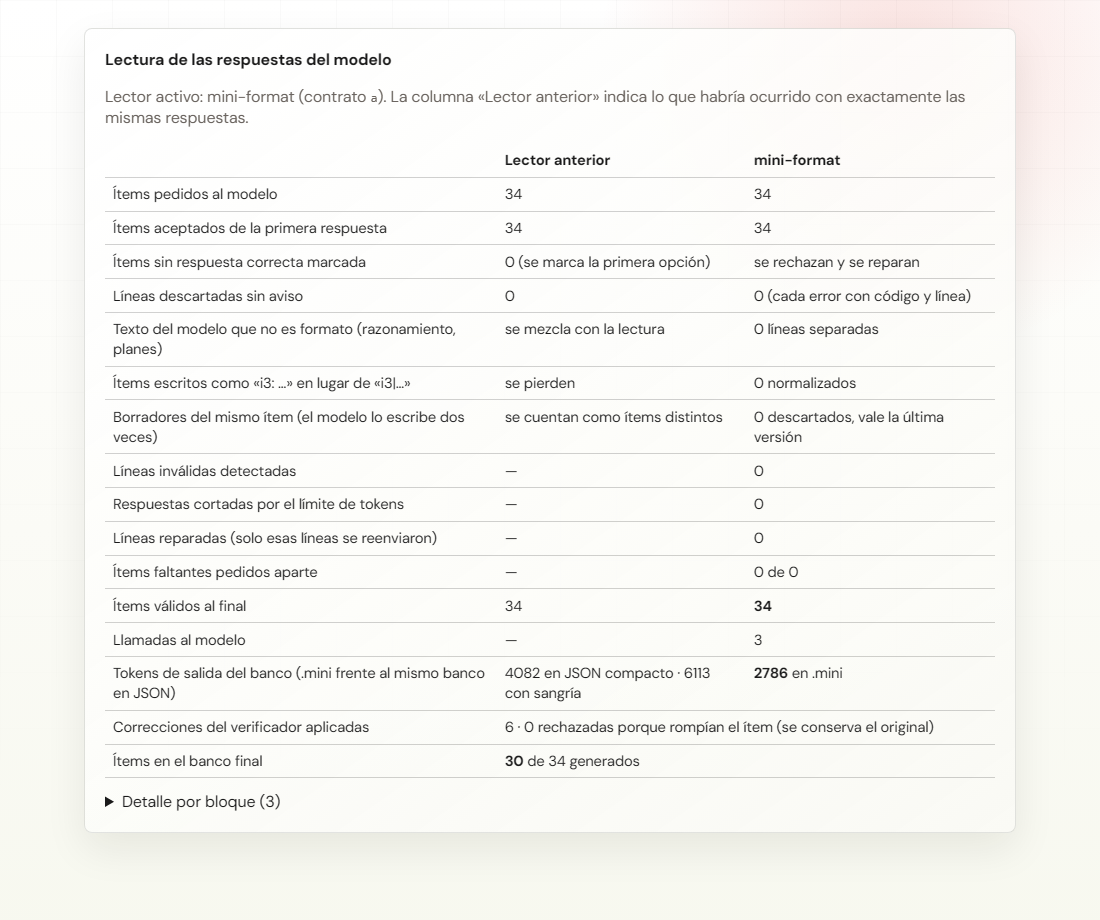
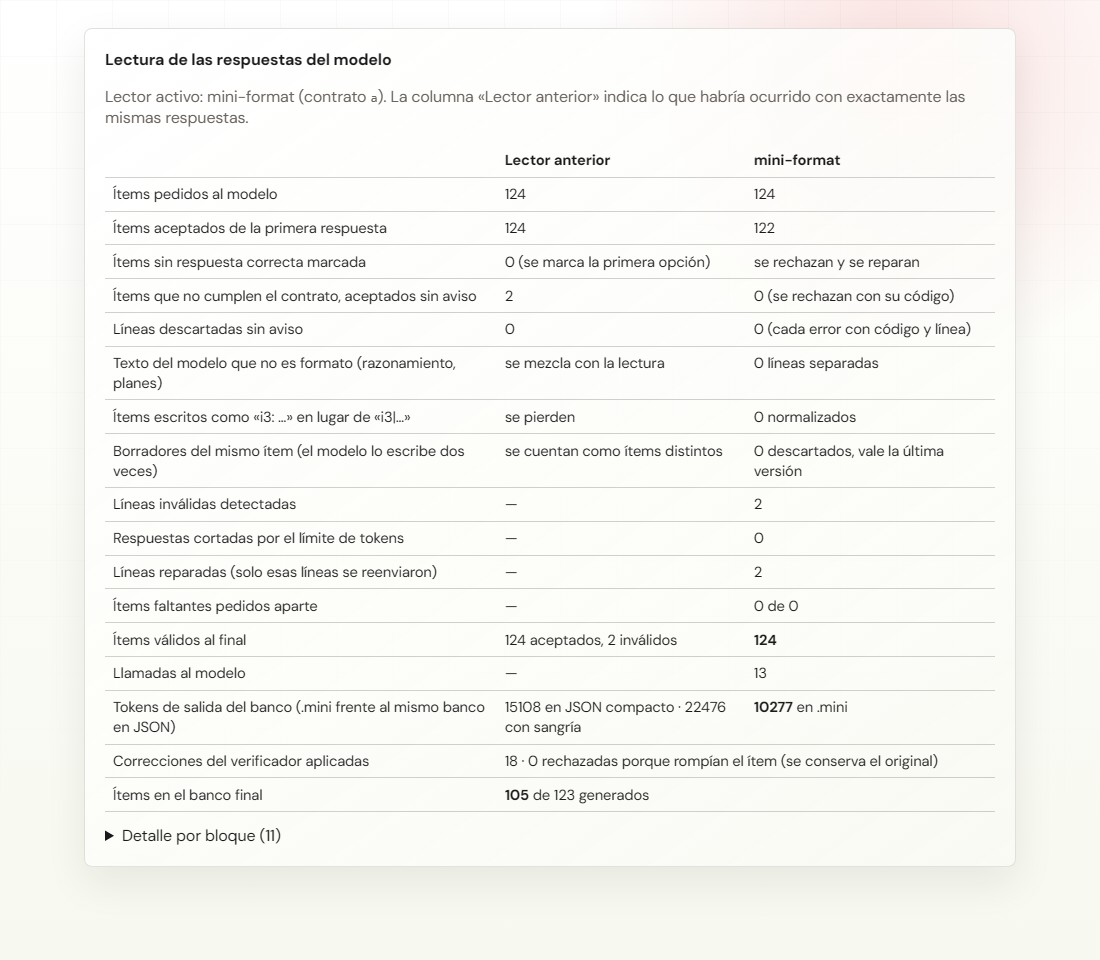
Caso SIMA: clase larga real (11 725 palabras, 124 preguntas, 146 s con DeepSeek), prueba en vivo con el prompt real de SIMA y ítems inválidos aceptados por el lector anterior

Changed region(s): [[0.0927, 0.1522, 0.8964, 0.8826], [0.0927, 0.0609, 0.8655, 0.1522], [0.4327, 0.1522, 0.6491, 0.3043]]

diff --git a/examples/sima/plantilla.html b/examples/sima/plantilla.html
@@ -72,6 +72,9 @@ __CABEZA__
   .sm-opciones button.no { border-color: rgb(185 28 28); background: rgb(220 38 38 / .08); }
   .sm-opciones button[disabled] { cursor: default; }
   .sm-linea { margin-top: .8rem; }
+  .sm-guia { margin: .4rem 0; padding-left: 1.2rem; font-size: var(--fs-cap); color: rgb(var(--fg-muted)); }
+  .sm textarea { width: 100%; box-sizing: border-box; min-height: 11rem; font-family: var(--f-mono); font-size: .78rem; line-height: 1.5;
+                 padding: .7rem .8rem; border: 1px solid rgb(var(--line)); border-radius: var(--r); background: rgb(var(--subtle)); color: rgb(var(--fg)); }
   .sm img { max-width: 100%; height: auto; border: 1px solid rgb(var(--line)); border-radius: var(--r-lg); display: block; }
   .sm-nota { font-size: var(--fs-fine); color: rgb(var(--fg-muted)); margin-top: .8rem; }
   .sm table { width: 100%; border-collapse: collapse; font-size: .8rem; }
@@ -116,12 +119,10 @@ __CABECERA__
 
   <section class="sm-panel">
     <h2><span data-lang="es">2 · Costo: el mismo banco en .mini y en JSON</span><span data-lang="en" hidden>2 · Cost: the same bank in .mini and in JSON</span></h2>
-    <p class="sub"><span data-lang="es">Tokens de salida de las preguntas generadas en esta clase, escritas en .mini y convertidas a JSON con los mismos datos. La línea roja es el
-      límite de salida por llamada configurado en SIMA.</span>
-      <span data-lang="en" hidden>Output tokens of the questions generated in this lecture, written in .mini and converted to JSON with the same data. The red line is the
-      per-call output limit configured in SIMA.</span></p>
+    <p class="sub"><span data-lang="es">Tokens de salida de las preguntas generadas en esta clase, escritas en .mini y convertidas a JSON con los mismos datos. </span>
+      <span data-lang="en" hidden>Output tokens of the questions generated in this lecture, written in .mini and converted to JSON with the same data. </span></p>
     <div class="sm-barras" id="barras"></div>
-    <p class="sm-leyenda"><i></i><span id="leyenda-limite"></span></p>
+    <p class="sm-leyenda"><span id="leyenda-limite"></span></p>
     <div id="conclusion-tokens"></div>
   </section>
 
@@ -136,8 +137,23 @@ __CABECERA__
       <button type="button" class="sm-chip" data-respuesta="deepseek-chat">DeepSeek Chat</button>
       <button type="button" class="sm-chip" data-respuesta="qwen-groq">Qwen 3 (Groq)</button>
       <button type="button" class="sm-chip" data-respuesta="deepseek-v4-flash">DeepSeek V4 Flash</button>
+      <button type="button" class="sm-chip" data-respuesta="vivo"><span data-lang="es">Tu respuesta, en vivo</span><span data-lang="en" hidden>Your answer, live</span></button>
     </div>
     <div id="respuesta-desc"></div>
+    <div id="vivo" hidden>
+      <ol class="sm-guia">
+        <li><span data-lang="es">Copia el prompt real que SIMA envía al modelo para el primer bloque de la clase.</span>
+            <span data-lang="en" hidden>Copy the real prompt SIMA sends to the model for the first block of the lecture.</span></li>
+        <li><span data-lang="es">Pégalo en un chat de IA y copia su respuesta completa.</span><span data-lang="en" hidden>Paste it into an AI chat and copy its whole answer.</span></li>
+        <li><span data-lang="es">Pégala abajo: los dos lectores la procesan al instante.</span><span data-lang="en" hidden>Paste it below: both readers process it instantly.</span></li>
+      </ol>
+      <div class="sm-fila">
+        <button type="button" class="btn btn-solid" id="copiar-prompt"><span data-lang="es">Copiar el prompt de SIMA</span><span data-lang="en" hidden>Copy SIMA's prompt</span></button>
+        <a class="btn" href="https://chat.deepseek.com/" target="_blank" rel="noopener"><span data-lang="es">Abrir DeepSeek</span><span data-lang="en" hidden>Open DeepSeek</span> ↗</a>
+        <a class="btn" href="https://chatgpt.com/" target="_blank" rel="noopener"><span data-lang="es">Abrir ChatGPT</span><span data-lang="en" hidden>Open ChatGPT</span> ↗</a>
+      </div>
+      <textarea id="texto-vivo" spellcheck="false" aria-label="Respuesta del modelo" placeholder="a|m=IRT3PL|..."></textarea>
+    </div>
     <details><summary><span data-lang="es">Ver la respuesta tal como llegó</span><span data-lang="en" hidden>Show the answer as it arrived</span></summary>
       <pre id="respuesta-texto"></pre></details>
     <div class="sm-dos">
@@ -191,6 +207,7 @@ __PIE__
     E02: ["la primera línea no es la cabecera del contrato", "the first line is not the contract header"],
     E03: ["la cabecera no declara el número de registros", "the header does not declare the record count"],
     E05: ["la línea tiene otra cantidad de campos (llegó cortada o mal separada)", "the line has a different number of fields (cut or badly separated)"],
+    E07: ["la pregunta no tiene el número de opciones que exige el contrato", "the question does not have the number of options the contract requires"],
     E08: ["la pregunta no tiene marcada la respuesta correcta", "the question has no correct answer marked"],
     E10: ["valor fuera de los permitidos", "value outside the allowed ones"],
     E11: ["identificador repetido", "repeated identifier"],
@@ -243,31 +260,33 @@ __PIE__
 
   // ------------------------------------------------------------ 1 · clase
   function pintarClase() {
-    const c = DATOS.clase, r = DATOS.corridas.minifmt;
-    $("#clase-sub").textContent = t(["Clase «" + c.titulo + "», procesada el " + DATOS.fecha + " con " + c.modelo + " en " + c.llamadas +
-      " llamadas (" + c.reparto.join(", ") + " ítems).", "Lecture “" + c.titulo + "”, processed on " + DATOS.fecha + " with " + c.modelo + " in " +
-      c.llamadas + " calls (" + c.reparto.join(", ") + " items)."]);
+    const c = DATOS.clase, r = DATOS.corrida;
+    $("#clase-sub").textContent = t(["Clase «" + c.titulo + "», procesada en SIMA el " + DATOS.fecha + " con " + c.modelo + ": " + c.llamadas_generacion +
+      " llamadas de generación y " + (c.llamadas - c.llamadas_generacion) + " de reparación, en " + c.segundos + " segundos.",
+      "Lecture “" + c.titulo + "”, processed in SIMA on " + DATOS.fecha + " with " + c.modelo + ": " + c.llamadas_generacion +
+      " generation calls and " + (c.llamadas - c.llamadas_generacion) + " repair calls, in " + c.segundos + " seconds."]);
     $("#cifras-clase").innerHTML = cifra(num(c.palabras), t(["palabras de la clase", "words in the lecture"])) +
-      cifra(c.items_pedidos, t(["ítems pedidos al modelo", "items requested"])) +
-      cifra(r.finales, t(["ítems válidos tras la validación", "valid items after validation"]), "bien") +
+      cifra(c.items_pedidos, t(["preguntas pedidas al modelo", "questions requested"])) +
+      cifra(r.finales, t(["válidas tras validar y reparar", "valid after validation and repair"]), "bien") +
+      cifra(r.reparados, t(["líneas reparadas (solo esas se reenviaron)", "lines repaired (only those were resent)"]), r.reparados ? "mal" : "") +
       cifra(r.items_finales, t(["preguntas en el banco final", "questions in the final bank"]), "bien");
     $("#extracto").innerHTML = c.extracto.map((p) => "<p>" + escapar(p) + "</p>").join("");
   }
 
   // ------------------------------------------------------------ 2 · tokens
   function pintarTokens() {
-    const k = DATOS.tokens, lim = DATOS.clase.limite_salida, max = Math.max(k.json, lim) * 1.05;
+    const k = DATOS.tokens, max = k.json * 1.02;
     const fila = (nombre, v, cls) => '<div class="sm-barra ' + cls + '"><span>' + nombre + '</span><div class="pista"><div class="relleno" style="width:' +
-      (100 * v / max).toFixed(1) + '%"></div><div class="limite" style="left:' + (100 * lim / max).toFixed(1) + '%"></div></div><span class="n">' + num(v) + "</span></div>";
+      (100 * v / max).toFixed(1) + '%"></div></div><span class="n">' + num(v) + "</span></div>";
     $("#barras").innerHTML = fila(".mini", k.mini, "mini") + fila(t(["JSON compacto", "Compact JSON"]), k.json_compacto, "") + fila(t(["JSON con sangría", "Indented JSON"]), k.json, "");
-    $("#leyenda-limite").textContent = t(["límite de salida por llamada en SIMA: " + num(lim) + " tokens · tokenizador " + k.tokenizador,
-                                          "SIMA's per-call output limit: " + num(lim) + " tokens · tokenizer " + k.tokenizador]);
+    $("#leyenda-limite").textContent = t(["tokens de salida del banco completo · tokenizador " + k.tokenizador, "output tokens of the whole bank · tokenizer " + k.tokenizador]);
     const menos = (a) => Math.round(100 * (1 - k.mini / a));
+    const n = DATOS.banco.split("\n").length - 1;
     $("#conclusion-tokens").innerHTML = '<p class="sm-aviso bien">' + t([
-      "El banco en .mini ocupa " + menos(k.json_compacto) + " % menos tokens que el JSON compacto y " + menos(k.json) + " % menos que el JSON con sangría. " +
-      "Los " + DATOS.clase.items_pedidos + " ítems en .mini caben dentro del límite de una llamada; en JSON lo superan y la respuesta se cortaría.",
-      "The bank in .mini takes " + menos(k.json_compacto) + "% fewer tokens than compact JSON and " + menos(k.json) + "% fewer than indented JSON. " +
-      "The " + DATOS.clase.items_pedidos + " items in .mini fit within one call's limit; in JSON they exceed it and the answer would be cut."]) + "</p>";
+      "Las " + n + " preguntas de esta clase ocupan " + num(k.mini) + " tokens en .mini frente a " + num(k.json_compacto) + " en JSON compacto: " +
+      num(k.json_compacto - k.mini) + " tokens de salida menos por clase (" + menos(k.json_compacto) + " %), y " + menos(k.json) + " % menos que el JSON con sangría.",
+      "The " + n + " questions of this lecture take " + num(k.mini) + " tokens in .mini versus " + num(k.json_compacto) + " in compact JSON: " +
+      num(k.json_compacto - k.mini) + " fewer output tokens per lecture (" + menos(k.json_compacto) + "%), and " + menos(k.json) + "% fewer than indented JSON."]) + "</p>";
   }
 
   // ------------------------------------------------------------ 3 · respuestas reales
@@ -281,10 +300,16 @@ __PIE__
   };
   let actual = "qwen-groq";
   function pintarRespuesta() {
-    const r = DATOS.respuestas[actual];
+    const vivo = actual === "vivo";
+    const r = vivo ? { modelo: t(["Tu respuesta", "Your answer"]), texto: $("#texto-vivo").value } : DATOS.respuestas[actual];
     $$("[data-respuesta]").forEach((b) => b.setAttribute("aria-pressed", String(b.dataset.respuesta === actual)));
-    $("#respuesta-desc").innerHTML = '<p class="sm-aviso info"><b>' + escapar(r.modelo) + "</b> · " + t(DESCRIPCION[actual]) + "</p>";
+    $("#vivo").hidden = !vivo;
+    $("#respuesta-desc").innerHTML = vivo
+      ? '<p class="sm-aviso info">' + t(["Prueba en vivo: la respuesta la genera el modelo que elijas, en este momento. Nada se envía a ningún servidor; la lectura ocurre en este navegador.",
+          "Live test: the answer is generated by the model you choose, right now. Nothing is sent to any server; reading happens in this browser."]) + "</p>"
+      : '<p class="sm-aviso info"><b>' + escapar(r.modelo) + "</b> · " + t(DESCRIPCION[actual]) + "</p>";
     $("#respuesta-texto").textContent = r.texto;
+    if (vivo && !r.texto.trim()) { $("#res-legado").innerHTML = ""; $("#res-mini").innerHTML = '<p class="sm-nota">' + t(["Esperando la respuesta…", "Waiting for the answer…"]) + "</p>"; return; }
 
     const L = legado(r.texto);
     $("#res-legado").innerHTML = '<div class="sm-cifras">' + cifra(L.aceptados, t(["preguntas aceptadas", "questions accepted"]), L.aceptados ? "" : "mal") +
@@ -335,14 +360,18 @@ __PIE__
 
   // ------------------------------------------------------------ 5 · corridas en SIMA
   function pintarCorridas() {
-    const m = DATOS.corridas.minifmt, l = DATOS.corridas.legado;
-    const fila = (k, a, b) => "<tr><td>" + k + "</td><td>" + a + "</td><td>" + b + "</td></tr>";
-    $("#corridas").innerHTML = "<thead><tr><th>" + t(["Clase completa en SIMA (" + DATOS.clase.modelo + ")", "Full lecture in SIMA (" + DATOS.clase.modelo + ")"]) +
-      "</th><th>" + t(["Lector anterior", "Previous reader"]) + "</th><th>mini-format</th></tr></thead><tbody>" +
-      fila(t(["Ítems pedidos", "Items requested"]), l.pedidos, m.pedidos) +
-      fila(t(["Ítems válidos de la generación", "Valid items from generation"]), l.finales, m.finales) +
-      fila(t(["Llamadas de generación", "Generation calls"]), l.llamadas, m.llamadas) +
-      fila(t(["Preguntas en el banco final", "Questions in the final bank"]), l.items_finales, m.items_finales) + "</tbody>";
+    const r = DATOS.corrida, c = DATOS.clase, k = DATOS.tokens;
+    const e07 = r.errores.filter((e) => e[1] === "E07").length;
+    const fila = (a, b, d) => "<tr><td>" + a + "</td><td>" + b + "</td><td>" + d + "</td></tr>";
+    $("#corridas").innerHTML = "<thead><tr><th>" + t(["Esta clase en SIMA (" + c.modelo + ")", "This lecture in SIMA (" + c.modelo + ")"]) +
+      "</th><th>" + t(["Lector anterior, mismas respuestas", "Previous reader, same answers"]) + "</th><th>mini-format</th></tr></thead><tbody>" +
+      fila(t(["Preguntas pedidas", "Questions requested"]), r.pedidos, r.pedidos) +
+      fila(t(["Aceptadas de la primera respuesta", "Accepted from the first answer"]), r.legado_aceptados, r.recibidos) +
+      fila(t(["Preguntas con número de opciones inválido (E07)", "Questions with an invalid number of options (E07)"]),
+           t([e07 + ", aceptadas sin aviso", e07 + ", accepted without notice"]), t([e07 + " rechazadas y reparadas", e07 + " rejected and repaired"])) +
+      fila(t(["Llamadas al modelo", "Model calls"]), c.llamadas_generacion, r.llamadas + t([" (" + r.reparados + " de reparación de una línea)", " (" + r.reparados + " one-line repairs)"])) +
+      fila(t(["Tokens de salida del banco", "Output tokens of the bank"]), num(k.json_compacto) + t([" si se pidiera en JSON", " if requested in JSON"]), num(k.mini)) +
+      fila(t(["Preguntas en el banco final", "Questions in the final bank"]), "—", r.items_finales + t([" (tras los filtros de calidad de SIMA)", " (after SIMA's quality filters)"])) + "</tbody>";
   }
 
   function pintarTodo() { pintarClase(); pintarTokens(); pintarRespuesta(); pintarPregunta(); pintarCorridas();
@@ -354,7 +383,12 @@ __PIE__
   $("#ver-linea").addEventListener("click", (ev) => { verLinea = !verLinea; ev.currentTarget.setAttribute("aria-pressed", String(verLinea)); pintarPregunta(); });
   new MutationObserver(pintarTodo).observe(document.documentElement, { attributes: true, attributeFilter: ["lang"] });
   const pedido = new URLSearchParams(location.search).get("respuesta");
-  if (DATOS.respuestas[pedido]) actual = pedido;
+  if (DATOS.respuestas[pedido] || pedido === "vivo") actual = pedido;
+  $("#texto-vivo").addEventListener("input", pintarRespuesta);
+  $("#copiar-prompt").addEventListener("click", (ev) => {
+    const b = ev.currentTarget, o = b.innerHTML, listo = () => { b.textContent = t(["¡Copiado!", "Copied!"]); setTimeout(() => { b.innerHTML = o; }, 1400); };
+    if (navigator.clipboard) navigator.clipboard.writeText(DATOS.prompt_sima).then(listo, listo); else listo();
+  });
   pintarTodo();
 })();
 </script>
